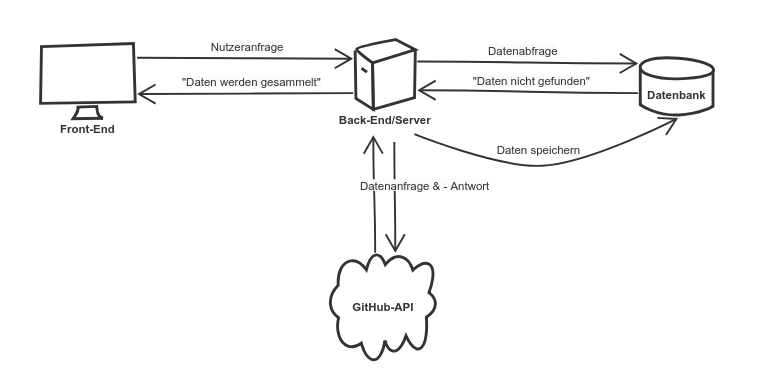
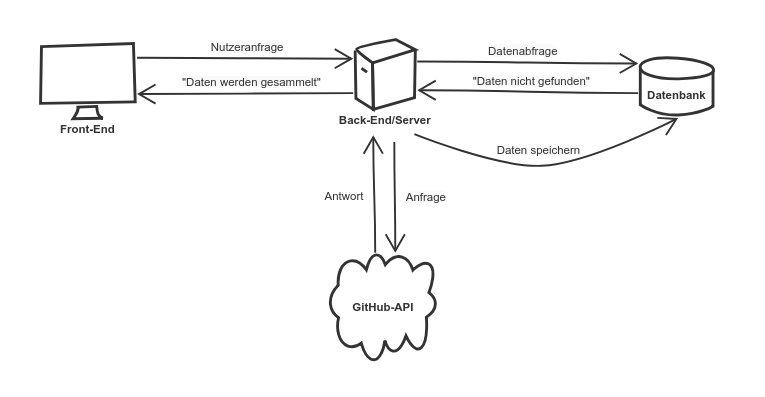
Update from feedback

Changed region(s): [[0.0301, 0.0866, 0.9332, 0.5486], [0.4215, 0.5774, 0.572, 0.9528], [0.0602, 0.0866, 0.1806, 0.1444]]

diff --git a/_posts/2018-11-21-GitIntel-Entwicklung-eines-modernen-GitHub-Crawlers.md b/_posts/2018-11-21-GitIntel-Entwicklung-eines-modernen-GitHub-Crawlers.md
@@ -12,14 +12,14 @@ Wer sich in letzter Zeit mit dem Thema Open-Source auseinandergesetzt hat, wird 
 
 # Andauernder Trend 'Open-Source'
 
-Dass große, auf Profit ausgelegte Unternehmen Ressourcen aufwenden, um „freie“ Software zu entwickeln, klingt für den ein oder anderen erstmal befremdlich. Tatsächlich sind es einige der bekanntesten Tech-Giganten, die die Liste der „Top Contributors“ auf GitHub anführen.
+Dass große, auf Profit ausgelegte Unternehmen Ressourcen aufwenden, um „freie“ Software zu entwickeln, klingt für den einen oder anderen erstmal befremdlich. Tatsächlich sind es einige der bekanntesten Tech-Giganten, die die Liste der „Top Contributors“ auf GitHub anführen.
 
 ![Statistik zu Contributions von Organisationen auf www.github.com](/assets/images/posts/gitintel/contributions.png)
  
 Mit mehr als 31 Mio. Entwicklern und mehr als 2.1 Mio. Organisationen stellt GitHub die wohl [größte und aktivste Open-Source-Community](https://octoverse.github.com/) dar. Es ist deshalb nicht verwunderlich, dass auch große Unternehmen vornehmlich hier anzutreffen sind. Aufgrund der Größe und Popularität eignet sich GitHub wahrscheinlich am besten als Quelle für Open-Source-Statistiken und als Ziel für das Sammeln Open-Source-spezifischer Daten.  
 
 Auch adesso ist nicht untätig im Bereich Open-Source!
-Mit 80 Mitgliedern, 11 Teams und 23 eigenen Repositories ist adesso bereits gut aufgestellt, auch wenn hier noch Luft nach oben bleibt.  
+Mit 80 Mitgliedern, 11 Teams und 23 eigenen Repositories ist adesso für ein Unternehmen seiner Größe bereits gut aufgestellt.  
 Die oben genannten Daten lassen sich ganz leicht auf der [GitHub-Profilseite](https://github.com/adessoag) der adesso AG einsehen. Aber wäre es nicht interessant, noch mehr Informationen bezüglich der Aktivität von Unternehmen auf GitHub einsehen zu können?
 
 * Zu welchen großen Projekten haben Mitglieder von adesso bereits beigetragen? 
@@ -32,7 +32,7 @@ Zum Glück bietet GitHub eine API, die solche Informationen bereitstellt…
 # Das Konzept
 
 Mit Hilfe von Git-Intel können alle Informationen zu Organisationen, die auf GitHub registriert sind, visuell aufbereitet eingesehen werden.
-Nutzer geben den Namen der Organisation ein, über die sie Informationen erhalten wollen, woraufhin Git-Intel Anfragen an die GitHub-API schickt und die Antworten entsprechend in seiner Datenbank speichert. Wurde die Organisation, aufgrund einer früheren Abfrage, bereits in der Datenbank gespeichert, werden die Ergebnisse direkt angezeigt. 
+Nutzer geben den Namen der Organisation ein, über die sie Informationen erhalten wollen, woraufhin Git-Intel Anfragen an die GitHub-API schickt und die Antworten entsprechend in seiner Datenbank speichert. Wurde die Organisation aufgrund einer früheren Abfrage bereits in der Datenbank gespeichert, werden die Ergebnisse direkt angezeigt. 
 
 ![Benutzeroberfläche der Git-Intel-Anwendung](/assets/images/posts/gitintel/gitintel1.png)
   
@@ -41,9 +41,10 @@ Die besondere Stärke von Git-Intel liegt darin, dass es die von der GitHub-API 
 # Die Funktionsweise
 
 Die Interaktion mit Git-Intel funktioniert grundlegend wie folgt:
-1.	Der Nutzer stellt eine Anfrage
-2.	Git-Intel sammelt Daten und bereitet sie auf
-3.	Die Daten werden zurück zum Nutzer gesendet
+1.	Der Nutzer stellt eine Anfrage.
+2.	Git-Intel sammelt Daten und bereitet sie auf.
+3.	Die Daten werden zurück zum Nutzer gesendet.  
+
 Der zweite Schritt unterliegt hierbei einer Fallunterscheidung:
 
 **Fall 1 – Die angeforderten Daten befinden sich bereits in der Datenbank:**
@@ -58,24 +59,21 @@ Sind die vom Nutzer angeforderten Daten bereits in der Datenbank vorhanden, frag
  
 Sind die angeforderten Daten nicht in der Datenbank vorhanden, stellt Git-Intel eine Anfrage an die GitHub-API, nimmt die angeforderten Daten entgegen und speichert sie in der Datenbank. Bei der Anfrage prüft ein Validierungsmechanismus, ob der vom Nutzer eingegebene Name dem einer auf GitHub registrierten Organisation entspricht. Sollte dies nicht der Fall sein, wirft die API einen Fehler und der Nutzer erhält eine entsprechende Nachricht.  
 Während des Datensammlungsprozesses erhält der Nutzer visuelles Feedback in Form einer Fortschrittsanzeige, welche sich an der Menge der bereits gesammelten Informationen orientiert.  
-Um die Reihenfolge der abzuarbeitenden Nutzeranfragen kontrollieren zu können, werden diese in einer Warteschlange gespeichert. Dem Nutzer wird mitgeteilt, an welcher Position er sich in der Warteschlange befindet, sodass er nachvollziehen kann, wann die Verarbeitung seiner Anfrage beginnt.
-
-Ein Ausnahmefall tritt ein, wenn der Nutzer eine Organisation abzufragen versucht, die so nicht auf GitHub existiert. In diesem Fall wird der Nutzer darauf aufmerksam gemacht und aufgefordert, einen validen Organisationsnamen in das Suchfeld einzutragen.
 
 Da das Sammeln der Daten bestimmten Limitierungen durch GitHubs API unterliegt, kann dieser Prozess, je nach Datenmenge, einige Zeit in Anspruch nehmen.
 Je größer die Datenmengen sind, die einer Organisation auf GitHub entsprechen, desto mehr Abfragen müssen an die GitHub-API gestellt werden. Je mehr Abfragen gestellt werden, desto mehr Antworten müssen verarbeitet werden. Logisch.  
-Da die verwendete GitHub-API auf die Abfrage kleiner, sehr spezifischer Datensätze ausgelegt ist, reagiert sie sehr empfindlich, sobald man versucht, große Datenmengen abzufragen. Sendet ein Klient zu viele Abfragen zu schnell hintereinander, schiebt GitHubs API ihm den ‚Spam‘-Riegel vor. Hinzu kommt, dass GitHub die Anzahl der erlaubten Anfragen pro Stunde durch ein sogenanntes "Rate Limit" einschränkt. Das Rate Limit der v4-API beträgt 5000 Punkte pro Stunde, wobei die verbrauchten Punkte pro Anfrage anhand bestimmter Faktoren berechnet werden. Grundsätzlich gilt: Eine komplexe Anfrage verbraucht mehr Punkte als eine simple Anfrage. Die Anzahl der verbleibenden **Punkte** ist somit nicht gleichzusetzen mit der Anzahl der verbleibenden **Anfragen**.  
-Aus diesem Grund müssen viele Anfragen entsprechend getaktet werden, was zu erhöhten Verarbeitungszeiten führen kann. An dieser Stelle ist es wichtig ein angenehmes Gleichgewicht zwischen der Belastung der GitHub-Schnittstelle und der User Experience zu finden. Genaueres zur GitHub-API erfahrt ihr im nächsten Abschnitt.
+Da die verwendete GitHub-API auf die Abfrage kleiner, sehr spezifischer Datensätze ausgelegt ist, reagiert sie sehr empfindlich, sobald man versucht, große Datenmengen abzufragen. Sendet ein Client zu viele Abfragen zu schnell hintereinander, schiebt GitHubs API ihm den ‚Spam‘-Riegel vor. Hinzu kommt, dass GitHub die Anzahl der erlaubten Anfragen pro Stunde durch ein sogenanntes "Rate Limit" einschränkt. Das Rate Limit der v4-API beträgt 5000 Punkte pro Stunde, wobei die verbrauchten Punkte pro Anfrage anhand bestimmter Faktoren berechnet werden. Grundsätzlich gilt: Eine komplexe Anfrage verbraucht mehr Punkte als eine simple Anfrage. Die Anzahl der verbleibenden **Punkte** ist somit nicht gleichzusetzen mit der Anzahl der verbleibenden **Anfragen**.  
+Aus diesem Grund müssen viele Anfragen entsprechend getaktet werden, was zu erhöhten Verarbeitungszeiten führen kann. An dieser Stelle ist es wichtig, ein angenehmes Gleichgewicht zwischen der Belastung der GitHub-Schnittstelle und der User Experience zu finden. Genaueres zur GitHub-API erfahrt ihr im nächsten Abschnitt.
 
 # Die Technologien dahinter
 
 Zum jetzigen Zeitpunkt besteht Git-Intel aus den drei Hauptkomponenten Nutzeranwendung (Front-End), Systemlogik (Back-End) und Datenbank.  
-Das Back-End wurde durch eine Spring-Boot-Anwendung realisiert, welche das Zentrum für die Interaktion aller Komponenten darstellt. Es kommuniziert mit der GitHub-API, verarbeitet empfangene Daten, nimmt Anfragen des Front-Ends entgegen, speichert Daten in der Datenbank ab und liest diese, entsprechend eingehender Anfragen, auch wieder aus.  
-Das Front-End ist eine SPA (Single Page Application) auf Angular-Basis. Googles Framework erlaubt es eine Anwendung zu gestalten, die die erfassten Daten übersichtlich und optisch ansprechend darstellt und relevante Zusammenhänge aufschlussreich präsentiert. Features, wie Routing und Tabs ermöglichen eine angenehme Navigation der Anwendung und tragen so zu einer ausgereiften User Experience bei.  
+Das Back-End wurde durch eine Spring-Boot-Anwendung realisiert, welche das Zentrum für die Interaktion aller Komponenten darstellt. Es kommuniziert mit der GitHub-API, verarbeitet empfangene Daten, nimmt Anfragen des Front-Ends entgegen, speichert Daten in der Datenbank ab und liest diese entsprechend eingehender Anfragen auch wieder aus.  
+Das Front-End ist eine SPA (Single Page Application) auf Angular-Basis. Das Framework erlaubt es eine Anwendung zu gestalten, die die erfassten Daten übersichtlich und optisch ansprechend darstellt und relevante Zusammenhänge aufschlussreich präsentiert. Features, wie Routing und Tabs ermöglichen eine angenehme Navigation der Anwendung und tragen so zu einer ausgereiften User Experience bei.  
 Die Datenbank ist vom Typ MongoDB. Mit Hilfe der dokumentenbasierten Datenbank können Datensätze in JSON-ähnlichen Strukturen verwaltet werden, wodurch die Weitergabe der Daten zwischen den einzelnen Komponenten sehr leicht ist.
 
 Für das Sammeln der Daten wird die neue GitHub-API, mit dem Namen „GitHub GraphQL API v4“, konsumiert. Wie der Name bereits verrät, empfängt die neue API Abfragen, die der [GraphQL-Spezifikation](https://developer.github.com/v4/#what-is-graphql) entsprechen. Abfragen dieser Art sind in Form von Graphen strukturiert. Sie sind hierarchisch aufgebaut und entsprechen in etwa der Form der JSON-Daten, die sie zurückliefern.
-Eine Abfrage, die den Namen einer Organisation, sowie die Namen der ersten hundert Mitglieder dieser Organisation liefert, sieht so aus:
+Eine Abfrage, die den Namen einer Organisation sowie die Namen der ersten hundert Mitglieder dieser Organisation liefert, sieht so aus:
  
 ```JavaScript
 {
@@ -90,7 +88,7 @@ Eine Abfrage, die den Namen einer Organisation, sowie die Namen der ersten hunde
 }
 ```
 
-Wer sich jetzt fragt „Warum nur die ersten hundert?“, ist gleich über den Kernaspekt der v4-API gestolpert. Durch die GraphQL-Spezifikation ist die GitHub-API auf die Abfrage kleiner, sehr spezifischer Datensätze ausgelegt, nicht aber für die Abfrage großer Datensätze. Diese Tatsache macht die API für die Verwendung bei Git-Intel zwar nicht ideal, aber keinesfalls  unbrauchbar, weshalb wir uns entschlossen haben, einige Kompromisse einzugehen, um dieses doch sehr interessante Projekt in die Tat umzusetzen. 
+Wer sich jetzt fragt „Warum nur die ersten hundert?“, ist gleich über den Kernaspekt von GitHubs API gestolpert. Durch die GraphQL-Spezifikation ist die API auf die Abfrage kleiner, sehr spezifischer Datensätze ausgelegt, nicht aber für die Abfrage großer Datensätze. Diese Tatsache macht die API für die Verwendung bei Git-Intel zwar nicht ideal, aber keinesfalls  unbrauchbar, weshalb wir uns entschlossen haben, einige Kompromisse einzugehen, um dieses doch sehr interessante Projekt in die Tat umzusetzen. 
 
 
 # Die Zukunft von Git-Intel
@@ -101,4 +99,4 @@ Mit steigender Relevanz des Themas Open-Source wird es wohl auch interessant zu 
 Die Informationen, die Git-Intel bereitstellt geben Aufschluss über die kurz- und langfristigen Entwicklungen von Unternehmen auf GitHub und geben einen spannenden Einblick in die Welt der Open-Source-Plattform aus ihrer Sicht.  
 Zur Zeit befindet sich das Projekt noch vor seinem ersten Release, doch wird dieser nicht mehr lange auf sich warten lassen.  
 Auf GitHub findet ihr das Projekt hier: https://github.com/adessoAG/Git-Intel-Spring.  
-Sollte euer Interesse geweckt worden sein und ihr habt Fragen zum Projekt, dann wendet euch gerne an Frederik Schlemmer oder mich.
+Sollte euer Interesse geweckt worden sein, dann wendet euch mit Fragen und Anregungen gerne an [Frederik Schlemmer](mailto:frederik.schlemmer@adesso.de) oder mich ([Dario Braun](mailto:dario.braun@adesso.de)).
